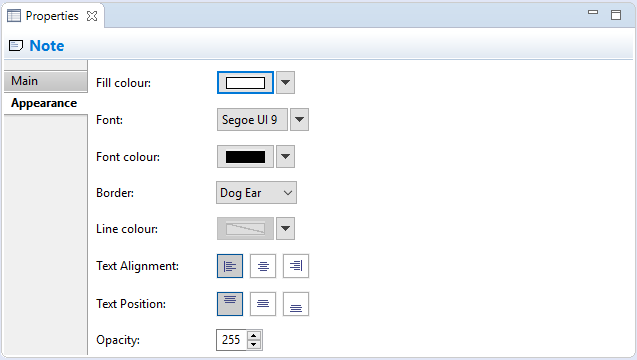
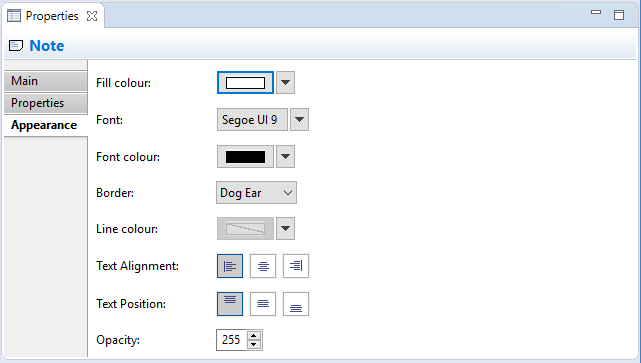
[Help] Update help for new Ecore changes

Changed region(s): [[0.0, 0.0, 1.0, 1.0], [0.0298, 0.0306, 0.179, 0.0611], [0.1491, 0.2139, 0.2386, 0.2444]]

diff --git a/com.archimatetool.help/help/Text/properties_canvas_image.html b/com.archimatetool.help/help/Text/properties_canvas_image.html
@@ -36,9 +36,18 @@
       </tr>
       <tr valign="top">
         <td><strong>Image:</strong></td>
-        <td>Select an image for the element or clear the image. See "<a href="image_chooser.html">Adding Images to Elements</a>" for more details</td>
+        <td>Select an image for the element or clear the image. See "<a href="image_chooser.html">Adding Images to Elements</a>" for more details.</td>
+      </tr>
+      <tr valign="top">
+        <td><strong>Documentation:</strong></td>
+        <td>A space to enter some user documentation relating to the Image.</td>
       </tr>
     </table>
+    
+    <br/>
+    
+    <p class="font12"><strong>The Properties Tab</strong></p>
+    <p>For more information about creating and managing User Properties see <a href="properties_user_properties.html">User Properties</a>.</p>
     
     <br/>
     

diff --git a/com.archimatetool.help/help/Text/properties_note.html b/com.archimatetool.help/help/Text/properties_note.html
@@ -30,6 +30,10 @@
     
     <br/>
     
+    <p class="font12"><strong>The Properties Tab</strong></p>
+    <p>For more information about creating and managing User Properties see <a href="properties_user_properties.html">User Properties</a>.</p>
+    
+    <br/>
     <p class="font12"><strong>The Appearance Tab</strong></p>
     
     <img src="../Images/properties_note2.png"/>
